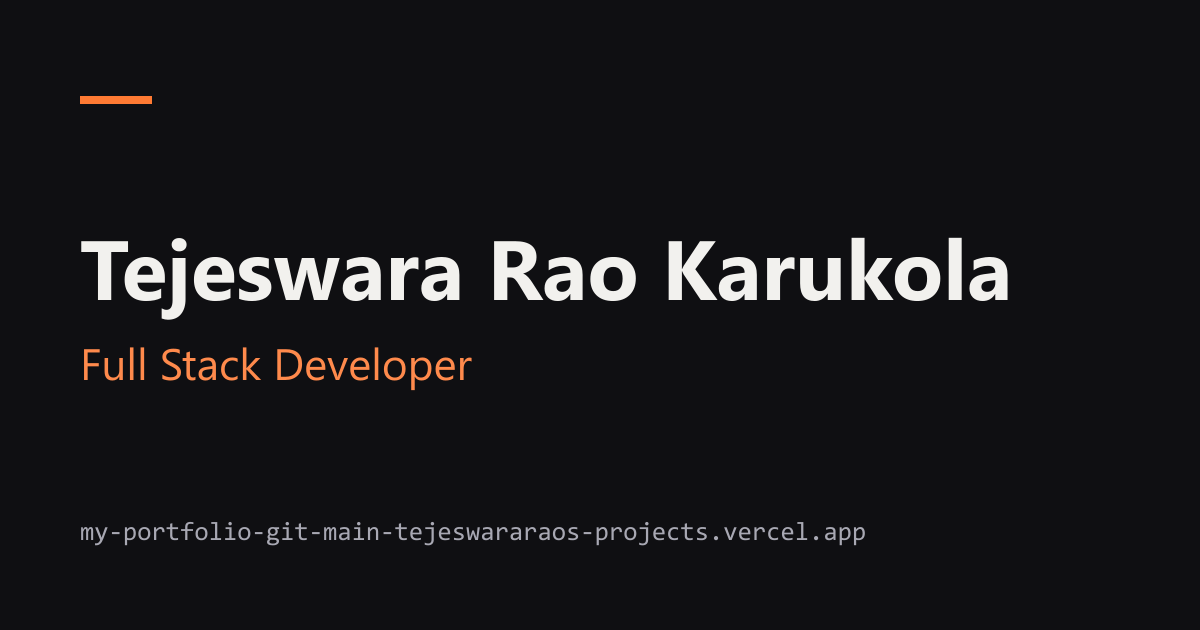
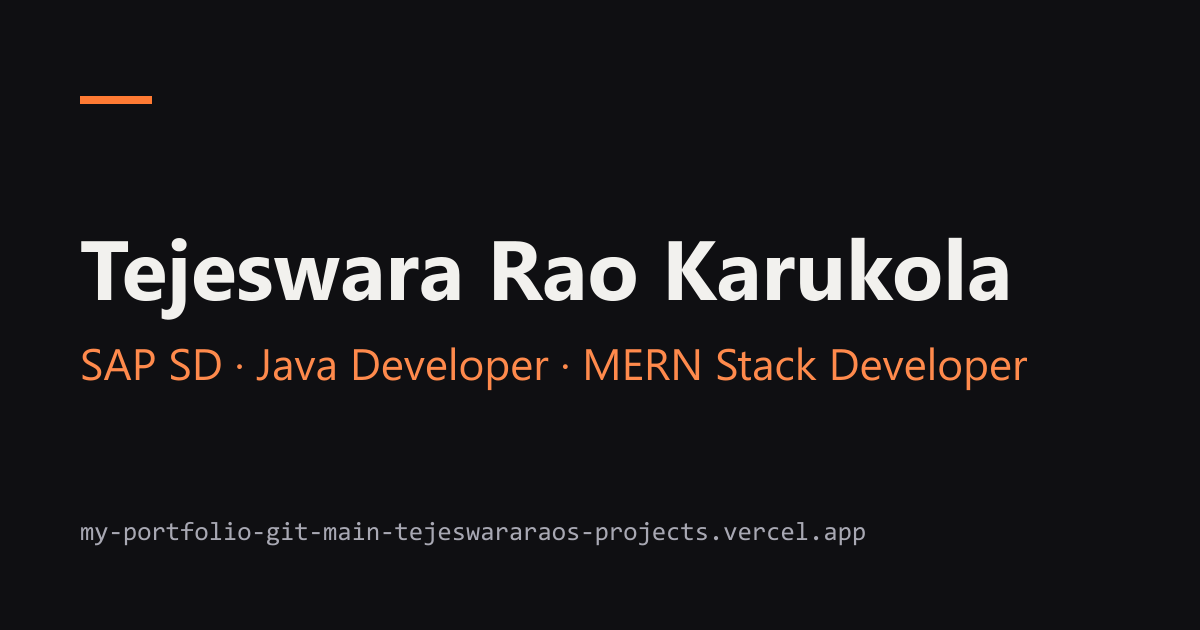
content: import skills, experience, education and AI certifications from LinkedIn
- AI & ML skills (Claude Agent SDK, Anthropic Claude, Claude Code) plus
  Java/Spring/React/web skills and tools as listed on LinkedIn
- Cognizant and Zidio internships; experience shows type and location
- 10 AI certifications (Anthropic, Google, SAP, Cognizant) with verified
  credential links; certs can show an expiry date
- headline, location, summary and BTech years from LinkedIn

Changed region(s): [[0.0617, 0.5429, 0.8633, 0.6032]]

diff --git a/src/sections/Certifications.jsx b/src/sections/Certifications.jsx
@@ -32,6 +32,12 @@ export function Certifications() {
                     <time dateTime={c.date}>{formatDate(c.date)}</time>
                   </>
                 )}
+                {!isBlank(c.expires) && (
+                  <>
+                    {" · Expires "}
+                    <time dateTime={c.expires}>{formatDate(c.expires)}</time>
+                  </>
+                )}
               </p>
               <div className={s.links}>
                 {!isBlank(c.credentialUrl) ? (

diff --git a/src/sections/Experience.jsx b/src/sections/Experience.jsx
@@ -20,7 +20,9 @@ export function Experience() {
               </h3>
               <p className={s.company}>
                 <Field value={e.company} field={`experience[${i}].company`} />
+                {e.type && ` · ${e.type}`}
               </p>
+              {e.location && <p className={s.location}>{e.location}</p>}
               {isBlank(e.highlights) ? (
                 <Todo field={`experience[${i}].highlights`} />
               ) : (

diff --git a/src/sections/Experience.module.css b/src/sections/Experience.module.css
@@ -42,6 +42,10 @@
   color: var(--text-muted);
   font-weight: 500;
 }
+.location {
+  color: var(--text-muted);
+  font-size: var(--step--1);
+}
 .bullets {
   padding-left: 1.2em;
   display: grid;
